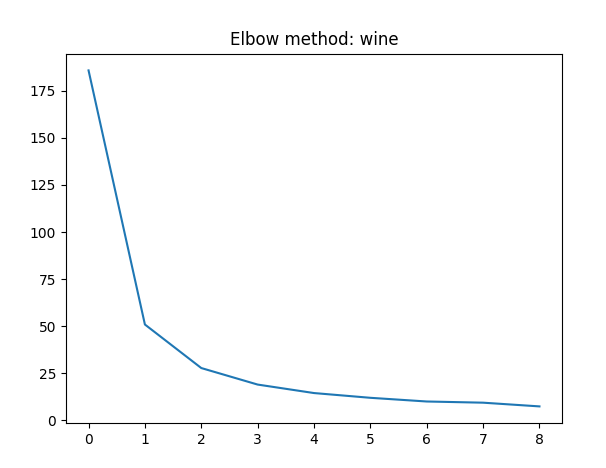
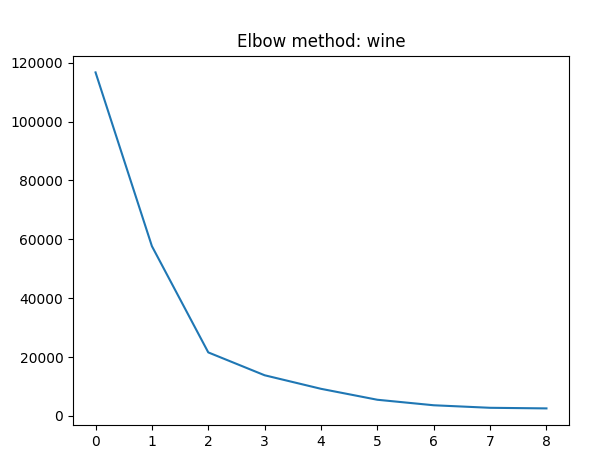
use tsne, fix graphs

diff --git a/students/be-poloshkov/lab1/run.py b/students/be-poloshkov/lab1/run.py
@@ -6,6 +6,7 @@ import pandas as pd
 from scipy.cluster.hierarchy import dendrogram
 from scipy.spatial.distance import sqeuclidean
 from sklearn.cluster import AgglomerativeClustering, DBSCAN
+from sklearn.manifold import TSNE
 from sklearn.mixture import GaussianMixture
 from sklearn.preprocessing import LabelEncoder
 
@@ -83,20 +84,18 @@ def make_linkage(model):
     return linkage_matrix
 
 def plot_countries(title, labels, df):
-    copy = df.copy()
-    copy['cluster'] = labels
-    plt.scatter(copy['longitude'], copy['latitude'], c=copy['cluster'], cmap='rainbow')
+    df['cluster'] = labels
+    plt.scatter(df['longitude'], df['latitude'], c=df['cluster'], cmap='rainbow')
     plt.xlim(-180, 180)
     plt.ylim(-90, 90)
     plt.title(title)
     plt.show()
 
 def plot_wine(title, labels, df):
-    copy = df.copy()
-    copy['cluster'] = labels
-    plt.scatter(copy['Flavanoids'], copy['Hue'], c=copy['cluster'], cmap='rainbow')
-    plt.xlim(0, 6)
-    plt.ylim(0, 2)
+    df['cluster'] = labels
+    plt.scatter(df['x'], df['y'], c=df['cluster'], cmap='rainbow')
+    plt.xlim(-60, 60)
+    plt.ylim(-60, 60)
     plt.title(title)
     plt.show()
 
@@ -114,35 +113,37 @@ def elbow_method(data):
         WCSS.append(kmeans.inertia_)
     return WCSS
 
-if __name__ == '__main__':
+def main():
     # wine
     wine_data = pd.read_csv('wine-clustering.csv')
     print(wine_data)
 
-    wine_cluster_data = wine_data[['Flavanoids', 'Hue']]
+    wine_data_tsne = TSNE(n_components=2, learning_rate='auto', init='random', perplexity=10).fit_transform(X=wine_data)
 
-    plt.scatter(wine_cluster_data['Flavanoids'].to_numpy(), wine_cluster_data['Hue'].to_numpy())
+    plt.scatter(wine_data_tsne[:, 0], wine_data_tsne[:, 1], c='red')
     plt.show()
-    
+
+    wine_data_tsne = pd.DataFrame(data=wine_data_tsne, columns=['x', 'y'])
+
     wine_lnk = MyAgglomerative(n_clusters=1, metric='ward')
-    wine_lnk.fit_predict(wine_cluster_data)
+    wine_lnk.fit_predict(wine_data_tsne)
     plot_dendrogram(wine_lnk.lm)
 
     # Agglo Wine
     wine_my_hierarchy = MyAgglomerative(n_clusters=2, metric='ward')
     wine_my_agglo_start_time = time.time()
-    wine_my_hierarchy_labels = wine_my_hierarchy.fit_predict(wine_cluster_data)
+    wine_my_hierarchy_labels = wine_my_hierarchy.fit_predict(wine_data_tsne)
     wine_my_agglo_end_time = time.time()
-    intra_dist = mean_intracluster_distance(wine_cluster_data, wine_my_hierarchy_labels)
-    inter_dist = mean_intercluster_distance(wine_cluster_data, wine_my_hierarchy_labels)
+    intra_dist = mean_intracluster_distance(wine_data_tsne, wine_my_hierarchy_labels)
+    inter_dist = mean_intercluster_distance(wine_data_tsne, wine_my_hierarchy_labels)
     print(f'Wine My Agglo time: {wine_my_agglo_end_time - wine_my_agglo_start_time}, intra distance: {intra_dist}, inter distance: {inter_dist}')
 
     wine_sk_hierarchy = AgglomerativeClustering(n_clusters=2, metric='euclidean')
     wine_sk_agglo_start_time = time.time()
-    wine_sk_hierarchy_labels = wine_sk_hierarchy.fit_predict(wine_cluster_data)
+    wine_sk_hierarchy_labels = wine_sk_hierarchy.fit_predict(wine_data_tsne)
     wine_sk_agglo_end_time = time.time()
-    intra_dist = mean_intracluster_distance(wine_cluster_data, wine_sk_hierarchy_labels)
-    inter_dist = mean_intercluster_distance(wine_cluster_data, wine_sk_hierarchy_labels)
+    intra_dist = mean_intracluster_distance(wine_data_tsne, wine_sk_hierarchy_labels)
+    inter_dist = mean_intercluster_distance(wine_data_tsne, wine_sk_hierarchy_labels)
     print(f'Wine SK Agglo time: {wine_sk_agglo_end_time - wine_sk_agglo_start_time}, intra distance: {intra_dist}, inter distance: {inter_dist}')
 
 
@@ -158,7 +159,7 @@ if __name__ == '__main__':
     # optimal cluster number
     wcss = elbow_method(countries_clustered_data)
     plot_elbow(wcss, "countries")
-    wcss = elbow_method(wine_cluster_data)
+    wcss = elbow_method(wine_data_tsne)
     plot_elbow(wcss, "wine")
 
     # Agglo
@@ -200,24 +201,24 @@ if __name__ == '__main__':
     print(f'Time on SK DBSCAN Countries is {sk_dbscan_end_time - sk_dbscan_start_time}, , intra distance: {intra_dist}, inter distance: {inter_dist}')
 
     # DBSCAN Wine
-    my_dbscan_wine = MyDBSCAN(metric='euclidean', min_samples=5, eps=0.1)
+    my_dbscan_wine = MyDBSCAN(metric='euclidean', min_samples=5, eps=5)
     my_dbscan_start_time_wine = time.time()
-    my_dbscan_labels_wine = my_dbscan_wine.fit_predict(wine_cluster_data)
+    my_dbscan_labels_wine = my_dbscan_wine.fit_predict(wine_data_tsne)
     my_dbscan_end_time_wine = time.time()
-    intra_dist = mean_intracluster_distance(wine_cluster_data, my_dbscan_labels_wine)
-    inter_dist = mean_intercluster_distance(wine_cluster_data, my_dbscan_labels_wine)
+    intra_dist = mean_intracluster_distance(wine_data_tsne, my_dbscan_labels_wine)
+    inter_dist = mean_intercluster_distance(wine_data_tsne, my_dbscan_labels_wine)
     print(f'Time on MyDBSCAN Wine is {my_dbscan_end_time_wine - my_dbscan_start_time_wine}, , intra distance: {intra_dist}, inter distance: {inter_dist}')
 
-    sk_dbscan_wine = DBSCAN(eps=0.1, min_samples=5, metric='euclidean')
+    sk_dbscan_wine = DBSCAN(eps=5, min_samples=5, metric='euclidean')
     sk_dbscan_start_time_wine = time.time()
-    sk_dbscan_labels_wine = sk_dbscan_wine.fit_predict(wine_cluster_data)
+    sk_dbscan_labels_wine = sk_dbscan_wine.fit_predict(wine_data_tsne)
     sk_dbscan_end_time_wine = time.time()
-    intra_dist = mean_intracluster_distance(wine_cluster_data, sk_dbscan_labels_wine)
-    inter_dist = mean_intercluster_distance(wine_cluster_data, sk_dbscan_labels_wine)
+    intra_dist = mean_intracluster_distance(wine_data_tsne, sk_dbscan_labels_wine)
+    inter_dist = mean_intercluster_distance(wine_data_tsne, sk_dbscan_labels_wine)
     print(f'Time on SK DBSCAN Wine is {sk_dbscan_end_time_wine - sk_dbscan_start_time_wine}, , intra distance: {intra_dist}, inter distance: {inter_dist}')
 
     # EM
-    my_em = MyEM(n_clusters=4, max_iter=1000)
+    my_em = MyEM(n_clusters=3, max_iter=1000)
     my_em_start_time = time.time()
     my_em_labels = my_em.fit_predict(countries_clustered_data)
     my_em_end_time = time.time()
@@ -225,7 +226,7 @@ if __name__ == '__main__':
     inter_dist = mean_intercluster_distance(countries_clustered_data, my_em_labels)
     print(f'Time on MyEM Countries is {my_em_end_time - my_em_start_time}, , intra distance: {intra_dist}, inter distance: {inter_dist}')
 
-    sk_em = GaussianMixture(n_components=4, covariance_type='full')
+    sk_em = GaussianMixture(n_components=3, covariance_type='full')
     sk_em_start_time = time.time()
     sk_em_labels = sk_em.fit_predict(countries_clustered_data)
     sk_em_end_time = time.time()
@@ -234,23 +235,23 @@ if __name__ == '__main__':
     print(f'Time on SK EM Countries is {sk_em_end_time - sk_em_start_time}, intra distance: {intra_dist}, inter distance: {inter_dist}')
 
     # EM Wine
-    my_em_wine = MyEM(n_clusters=3, max_iter=1000)
+    my_em_wine = MyEM(n_clusters=3, max_iter=100)
     my_em_start_time_wine = time.time()
-    my_em_labels_wine = my_em_wine.fit_predict(wine_cluster_data)
+    my_em_labels_wine = my_em_wine.fit_predict(wine_data_tsne)
     my_em_end_time_wine = time.time()
-    intra_dist = mean_intracluster_distance(wine_cluster_data, my_em_labels_wine)
-    inter_dist = mean_intercluster_distance(wine_cluster_data, my_em_labels_wine)
+    intra_dist = mean_intracluster_distance(wine_data_tsne, my_em_labels_wine)
+    inter_dist = mean_intercluster_distance(wine_data_tsne, my_em_labels_wine)
     print(f'Time on MyEM Wine is {my_em_end_time_wine - my_em_start_time_wine}, intra distance: {intra_dist}, inter distance: {inter_dist}')
 
     sk_em_wine = GaussianMixture(n_components=3, covariance_type='full')
     sk_em_start_time_wine = time.time()
-    sk_em_labels_wine = sk_em_wine.fit_predict(wine_cluster_data)
+    sk_em_labels_wine = sk_em_wine.fit_predict(wine_data_tsne)
     sk_em_end_time_wine = time.time()
-    intra_dist = mean_intracluster_distance(wine_cluster_data, sk_em_labels_wine)
-    inter_dist = mean_intercluster_distance(wine_cluster_data, sk_em_labels_wine)
+    intra_dist = mean_intracluster_distance(wine_data_tsne, sk_em_labels_wine)
+    inter_dist = mean_intercluster_distance(wine_data_tsne, sk_em_labels_wine)
     print(f'Time on SK EM Wine is {sk_em_end_time_wine - sk_em_start_time_wine}, intra distance: {intra_dist}, inter distance: {inter_dist}')
 
-
+    wine_data_tsne.copy()
     # Plotting
     plot_countries('Countries MyAgglomerative ', my_aggl_labels, countries_clustered_data)
     plot_countries('Countries SKAgglomerative ', countries_sk_labels, countries_clustered_data)
@@ -261,11 +262,15 @@ if __name__ == '__main__':
     plot_countries('Countries MyEM ', my_em_labels, countries_clustered_data)
     plot_countries('Countries SKEM ', sk_em_labels, countries_clustered_data)
 
-    plot_wine('Wine MyAgglomerative ', wine_my_hierarchy_labels, wine_cluster_data)
-    plot_wine('Wine SkAgglomerative', wine_sk_hierarchy_labels, wine_cluster_data)
+    plot_wine('Wine MyAgglomerative ', wine_my_hierarchy_labels, wine_data_tsne)
+    plot_wine('Wine SkAgglomerative', wine_sk_hierarchy_labels, wine_data_tsne)
 
-    plot_wine('Wine MyDBSCAN', my_dbscan_labels_wine, wine_cluster_data)
-    plot_wine('Wine SKDBSCAN', sk_dbscan_labels_wine, wine_cluster_data)
+    plot_wine('Wine MyDBSCAN', my_dbscan_labels_wine, wine_data_tsne)
+    plot_wine('Wine SKDBSCAN', sk_dbscan_labels_wine, wine_data_tsne)
 
-    plot_wine('Wine MyEM ', my_em_labels_wine, wine_cluster_data)
-    plot_wine('Wine SKEM ', sk_em_labels_wine, wine_cluster_data)
+    plot_wine('Wine MyEM ', my_em_labels_wine, wine_data_tsne)
+    plot_wine('Wine SKEM ', sk_em_labels_wine, wine_data_tsne)
+
+
+if __name__ == '__main__':
+    main()
